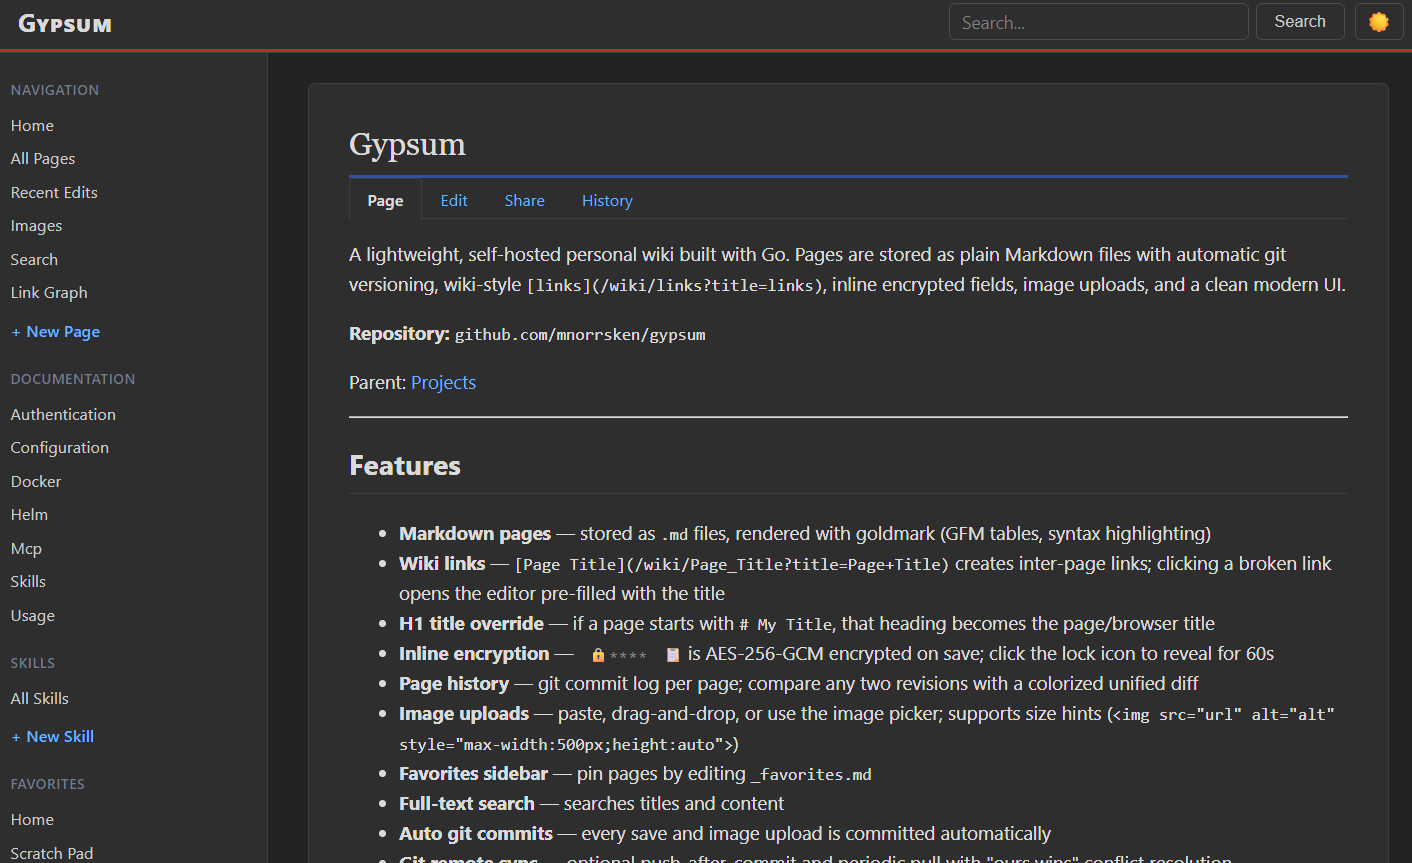
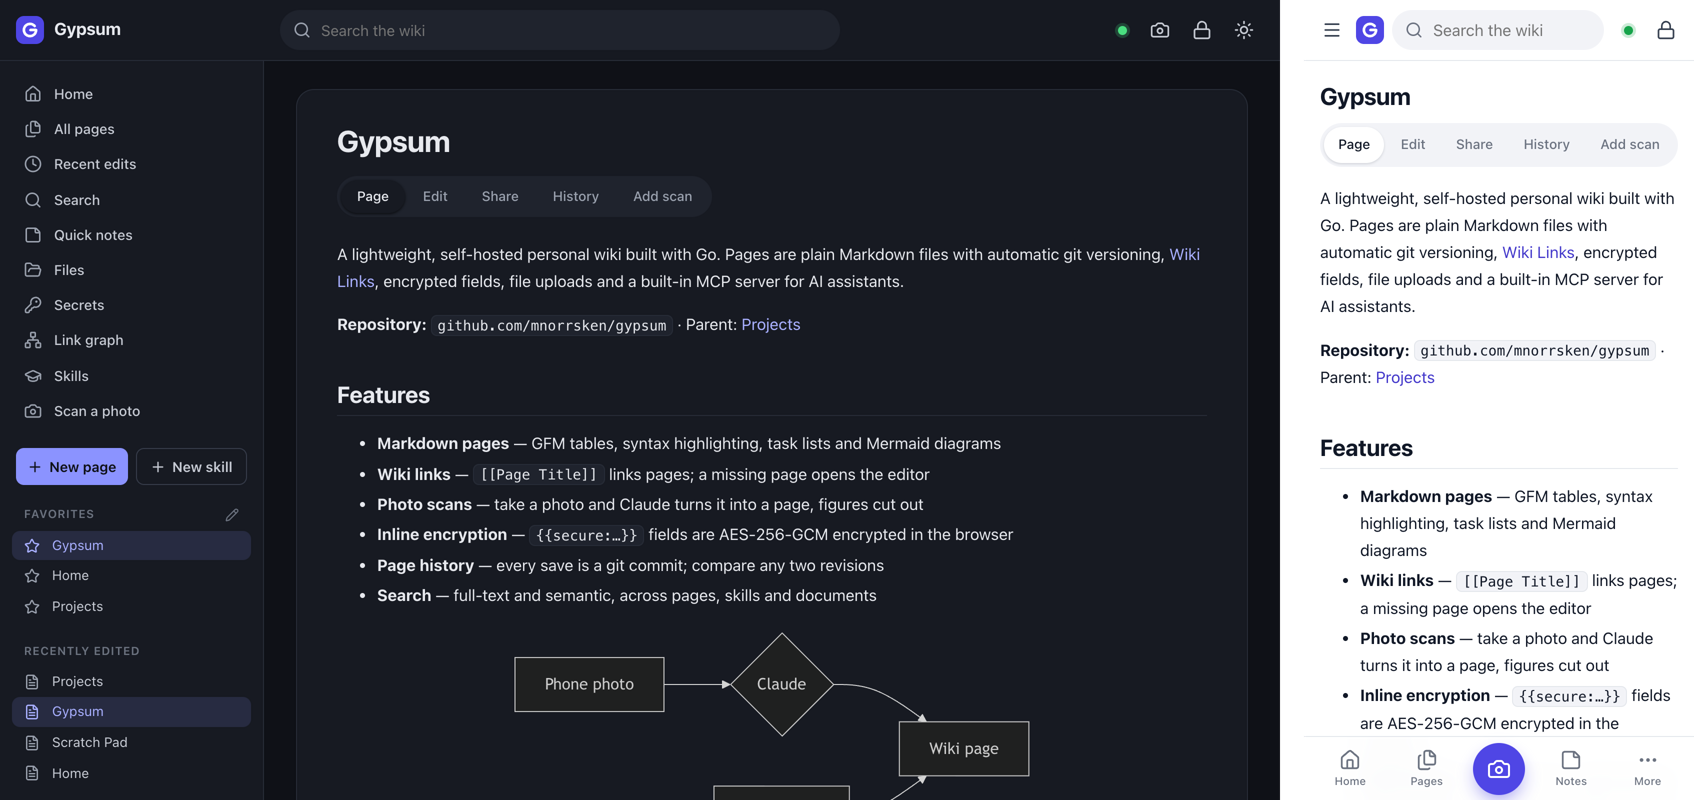
Add GitHub releases with binaries (v0.57.1)

diff --git a/cmd/mcp-proxy/main.go b/cmd/mcp-proxy/main.go
@@ -226,6 +226,31 @@ func encodeHeaderValue(v string) string {
 
 // ── Auth mode ───────────────────────────────────────────────────────────────
 
+// flagsFirst moves flags in front of the positional arguments, because the
+// flag package stops at the first non-flag. That lets the documented
+// `mcp-proxy auth <url> --password=PASS` work as well as `--password` first.
+func flagsFirst(args []string) []string {
+	var flags, rest []string
+	for i := 0; i < len(args); i++ {
+		a := args[i]
+		switch {
+		case a == "--":
+			rest = append(rest, args[i+1:]...)
+			return append(flags, rest...)
+		case strings.HasPrefix(a, "-"):
+			flags = append(flags, a)
+			// "--password value" (no "=") takes the next argument.
+			if !strings.Contains(a, "=") && i+1 < len(args) {
+				i++
+				flags = append(flags, args[i])
+			}
+		default:
+			rest = append(rest, a)
+		}
+	}
+	return append(flags, rest...)
+}
+
 func runAuth(args []string) {
 	fs := flag.NewFlagSet("auth", flag.ExitOnError)
 	password := fs.String("password", "", "wiki password (falls back to GYPSUM_PASSWORD env var, then prompts)")
@@ -244,7 +269,7 @@ func runAuth(args []string) {
 		fmt.Fprintln(os.Stderr, "  GYPSUM_PASSWORD  Wiki password (alternative to --password flag)")
 		fs.PrintDefaults()
 	}
-	_ = fs.Parse(args)
+	_ = fs.Parse(flagsFirst(args))
 
 	if fs.NArg() < 1 {
 		fs.Usage()

diff --git a/cmd/mcp-proxy/main_test.go b/cmd/mcp-proxy/main_test.go
@@ -409,3 +409,19 @@ func TestFullAuthThenProxy(t *testing.T) {
 		t.Fatalf("proxy did not send the token: got %q", gotAuth)
 	}
 }
+
+func TestFlagsFirst(t *testing.T) {
+	tests := []struct {
+		in, want []string
+	}{
+		{[]string{"https://wiki.example.com", "--password=pw"}, []string{"--password=pw", "https://wiki.example.com"}},
+		{[]string{"https://wiki.example.com", "--password", "pw"}, []string{"--password", "pw", "https://wiki.example.com"}},
+		{[]string{"--password=pw", "https://wiki.example.com"}, []string{"--password=pw", "https://wiki.example.com"}},
+		{[]string{"https://wiki.example.com"}, []string{"https://wiki.example.com"}},
+	}
+	for _, tt := range tests {
+		if got := flagsFirst(tt.in); strings.Join(got, " ") != strings.Join(tt.want, " ") {
+			t.Errorf("flagsFirst(%q) = %q, want %q", tt.in, got, tt.want)
+		}
+	}
+}

diff --git a/docs/usage.md b/docs/usage.md
@@ -2,7 +2,7 @@
 
 ## Layout and navigation
 
-On a desktop screen there is a top bar (logo, search field, sync status dot, scan camera when scanning is on, 🔒, theme toggle) and a sidebar on the left. The sidebar has icon links to Home, All pages, Recent edits, Search, Quick notes, Files, Secrets, Link graph, Skills and Scan a photo, the **New page** and **New skill** buttons, your Favorites, Recently edited pages, and a collapsible **Documentation** group. The current page is highlighted. Page tabs (Page, Edit, Share, History) are a segmented control above the content.
+On a desktop screen there is a top bar (logo, search field, sync status dot, scan camera when scanning is on, lock, theme toggle) and a sidebar on the left. The sidebar has icon links to Home, All pages, Recent edits, Search, Quick notes, Files, Secrets, Link graph, Skills and Scan a photo, the **New page** and **New skill** buttons, your Favorites, Recently edited pages, and a collapsible **Documentation** group. The current page is highlighted. Page tabs (Page, Edit, Share, History) are a segmented control above the content.
 
 ### Phones
 
@@ -22,7 +22,7 @@ Gypsum has a web app manifest (`/static/manifest.json`) and icons, so the browse
 
 ## Pages
 
-All pages live in `data/repo/pages/` as `.md` files. Click **+ New Page** in the sidebar to create a page.
+All pages live in `data/repo/pages/` as `.md` files. Click **New page** in the sidebar (on a phone: the menu) to create a page.
 
 Use `[[Page Title]]` to link between pages. The title is converted to a slug (`Page_Title`) automatically. Clicking a link to a non-existent page opens the editor pre-populated with a heading.
 
@@ -61,7 +61,7 @@ upgrades its blocks to `secure_aes2`. See
 [Configuration → Encryption](configuration.md#encryption) for the salt and bulk
 migration.
 
-The passphrase is entered once via the 🔒 icon in the top bar and can be
+The passphrase is entered once via the lock icon in the top bar and can be
 remembered on the device (the derived keys are stored in `localStorage`). The
 server never sees the passphrase, the derived key, or any plaintext.
 
@@ -149,7 +149,7 @@ Behind Authelia or another proxy, an upload link works as long as the browser th
 
 ## Photo scans
 
-With `ANTHROPIC_API_KEY` set (see [Configuration](configuration.md)), a camera button appears in the top bar and each page gets an **Add scan** tab. Both open `/scan`. Use **Take photo** to open the phone camera, or **Choose photo** to pick a file, and add an optional note for Claude. JPEG, PNG and WebP work; HEIC is rejected. The size limit is `GYPSUM_UPLOAD_MAX_MB`.
+With `ANTHROPIC_API_KEY` set (see [Configuration](configuration.md)), a camera button appears (in the top bar on a desktop, as the round centre button of the bottom bar on a phone) and each page gets an **Add scan** tab. Both open `/scan`. Use **Take photo** to open the phone camera, or **Choose photo** to pick a file, and add an optional note for Claude. JPEG, PNG and WebP work; HEIC is rejected. The size limit is `GYPSUM_UPLOAD_MAX_MB`.
 
 **The photo is sent to Anthropic.** Do not scan anything you cannot send there. Each scan is one Claude API call billed to your key (about 5k image tokens plus the output).
 
@@ -157,7 +157,7 @@ The photo is turned upright and scaled down (long edge at most 2576 px) before i
 
 A photo that is not a document (a car, a bird, a person, a building) is put on the page itself, cropped to its subject and scaled down to `GYPSUM_IMAGE_MAX_PX`, with a description under it.
 
-- **From the top bar:** a new page is created. Claude picks the title (` 2`, ` 3` is added if the title exists) and the page is linked from the best matching parent page, or Home.
+- **From the camera button:** a new page is created. Claude picks the title (` 2`, ` 3` is added if the title exists) and the page is linked from the best matching parent page, or Home.
 - **From the Add scan tab** (`/scan?page=Slug`): Claude gets the page's content and either appends the new part (for example the next page of a manual) or rewrites the whole page so every item has the same layout (for example a heading per picture, or a table with a picture and a description column). A rewrite keeps every existing image and file link; one that Claude drops is added back at the end. The old version stays in the page history. Pages longer than 20,000 characters or with encrypted fields are never rewritten; Claude only gets their headings and the scan is appended. Scans into the same page run one after another, and a scan fails if the page was edited in the browser meanwhile.
 
 The original photo is not kept. The scan runs in the background; `/scan/{id}` shows progress, then a link to the page and **Scan another photo into this page**. Jobs are kept in memory for 1 hour, so a restart loses running jobs.
@@ -169,7 +169,7 @@ Click the **History** tab to view the git commit log for a page. Select two revi
 ## Git Sync Status
 
 When a git remote is configured (`GYPSUM_GIT_REMOTE_URL`), a status dot appears
-in the top bar next to the 🔒 icon:
+in the top bar next to the lock icon:
 
 - **Green** — the last fetch/push to the remote succeeded.
 - **Amber (pulsing)** — a fetch or push is in progress.
@@ -190,7 +190,7 @@ Tick "Show diff" in the editor before saving to see a colorized unified diff of 
 
 ## Favorites
 
-Edit the special `_favorites.md` page (linked at the bottom of the Favorites section in the sidebar) to pin pages:
+Edit the special `_favorites.md` page (the pencil icon next to the Favorites heading in the sidebar) to pin pages:
 
 ```
 [[Home]]
@@ -222,4 +222,4 @@ Share any page via the **Share** tab. Public pages are rendered in a minimal rea
 
 ## Printing
 
-Use your browser's print function (Ctrl+P / Cmd+P) to get a clean printout with just the page title and content. Navigation, sidebar, tabs, and encrypted fields are hidden automatically.
+Use your browser's print function (Ctrl+P / Cmd+P) to get a clean printout with just the page title and content. Navigation (top bar, sidebar, bottom bar), tabs, and encrypted fields are hidden automatically.

diff --git a/README.md b/README.md
@@ -85,7 +85,7 @@ make build
 make run
 ```
 
-Open [http://localhost:8080](http://localhost:8080). See [Docker](docs/docker.md) or [Helm](docs/helm.md) for container deployment.
+Open [http://localhost:8080](http://localhost:8080). See [Docker](docs/docker.md) or [Helm](docs/helm.md) for container deployment. Prebuilt `gypsum` and `mcp-proxy` binaries are attached to each [GitHub release](https://github.com/mnorrsken/gypsum/releases).
 
 ## Configuration
 
@@ -102,12 +102,16 @@ Open [http://localhost:8080](http://localhost:8080). See [Docker](docs/docker.md
 | `GYPSUM_EMBED_URL` | _(empty)_ | OpenAI-compatible embeddings API (e.g. `http://localhost:11434/v1`); turns on [semantic search](#semantic-search) |
 | `GYPSUM_EMBED_MODEL` | _(empty)_ | Embedding model name; required with `GYPSUM_EMBED_URL` |
 | `GYPSUM_EMBED_API_KEY` | _(empty)_ | Optional Bearer token for the embeddings API |
+| `GYPSUM_UPLOAD_MAX_MB` | `20` | Largest accepted upload, per file |
+| `GYPSUM_IMAGE_MAX_PX` | `2048` | Longest side of stored JPEG/PNG photos (EXIF/GPS stripped); `0` stores them unchanged |
+| `ANTHROPIC_API_KEY` | _(empty)_ | Turns on [photo scans](docs/usage.md#photo-scans); the photo is sent to Claude |
+| `GYPSUM_SCAN_MODEL` | `claude-opus-5-5` | Claude model used for photo scans |
 
 OAuth, auth, and Docker-specific variables are documented in [Configuration](docs/configuration.md).
 
 ## Documentation
 
-- [Usage](docs/usage.md) — pages, secure fields, images, search, favorites
+- [Usage](docs/usage.md) — layout, pages, secure fields, images and files, photo scans, search, favorites
 - [Configuration](docs/configuration.md) — all environment variables
 - [Authentication](docs/authentication.md) — header auth and Authelia setup
 - [MCP Server](docs/mcp.md) — connecting AI assistants to your wiki
@@ -137,6 +141,7 @@ data/
 make help       # show all targets
 make fmt        # format Go source
 make test       # run unit tests
+make ui-test    # browser tests in headless Chrome (needs Chrome)
 make build      # build binary
 make run        # run on :8080
 ```

diff --git a/CHANGELOG.md b/CHANGELOG.md
@@ -2,6 +2,17 @@
 
 All notable changes to Gypsum are documented in this file.
 
+## v0.57.1
+
+### Added
+- **GitHub releases** — every tag now gets a GitHub Release with the CHANGELOG section as notes, `gypsum` binaries for Linux and macOS (amd64, arm64), `mcp-proxy` binaries for Linux, macOS and Windows, and `checksums.txt`. The release workflow also runs `go vet` and `go test -race` before it builds the image or the release.
+
+### Changed
+- **Docs and README** — the README screenshot shows the new UI on desktop and phone; the README configuration table lists the upload and photo-scan variables; usage and skills docs describe the new buttons and icons instead of the old sidebar links and emoji.
+
+### Fixed
+- **`mcp-proxy auth <url> --password=…`** — the documented form ignored the password flag because it came after the URL, and then asked for the password on stdin. Flags are now accepted before or after the URL.
+
 ## v0.57.0
 
 ### Added

diff --git a/docs/mcp.md b/docs/mcp.md
@@ -116,7 +116,7 @@ Claude will detect the 401 response, follow the OAuth discovery documents, and e
 
 For local use or when the wiki isn't publicly accessible, use the `mcp-proxy` binary. It bridges stdio to the remote HTTP endpoint.
 
-Build it with `make build`, then obtain a token:
+Download it for your platform from the [GitHub releases](https://github.com/mnorrsken/gypsum/releases) (`mcp-proxy_<version>_<os>_<arch>`, check it against `checksums.txt` and `chmod +x` it) or build it with `make build`, then obtain a token:
 
 ```bash
 mcp-proxy auth https://wiki.example.com --password=your-password

diff --git a/docs/configuration.md b/docs/configuration.md
@@ -119,7 +119,7 @@ init process as PID 1.
 
 Secure fields (`{{secure:...}}`) are encrypted and decrypted entirely in the
 browser using AES-256-GCM. The passphrase never reaches the server. On first
-visit, click the 🔒 icon in the top bar and enter your passphrase; tick
+visit, click the lock icon in the top bar and enter your passphrase; tick
 "Remember on this device" to persist the derived key in `localStorage`.
 
 New blocks are written as `{{secure_aes2:...}}` with **PBKDF2-HMAC-SHA256**

diff --git a/docs/helm.md b/docs/helm.md
@@ -235,7 +235,7 @@ Avoid, or use only with care:
 
 Encryption of `{{secure:...}}` fields happens entirely in the browser; the
 cluster never holds the encryption passphrase. Each user enters it once via
-the 🔒 dialog in the top bar.
+the lock dialog in the top bar.
 
 The PBKDF2 salt (`GYPSUM_SECURE_SALT`) is not secret, but it must stay stable —
 changing it makes existing `secure_aes2` fields undecryptable. It follows the

diff --git a/docs/skills.md b/docs/skills.md
@@ -6,7 +6,7 @@ Unlike regular wiki pages (which document information for humans), skills tell a
 
 ## Creating a Skill
 
-Click **+ New Skill** in the sidebar, or use the MCP `create_skill` tool. A skill is just markdown with a recommended structure:
+Click **New skill** in the sidebar, or use the MCP `create_skill` tool. A skill is just markdown with a recommended structure:
 
 ```markdown
 # Go Testing Conventions
